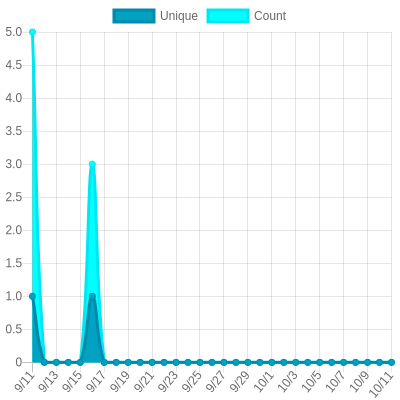
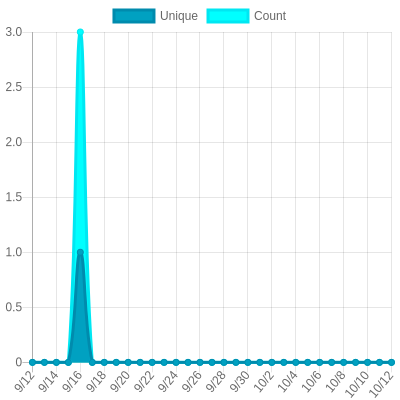
Update views

diff --git a/readme/977206944/month.md b/readme/977206944/month.md
@@ -21,6 +21,17 @@
 	</tr>
 	<tr>
 		<td>
+			<code>2025/10/12</code>
+		</td>
+		<td>
+			<code>0</code>
+		</td>
+		<td>
+			<code>0</code>
+		</td>
+	</tr>
+	<tr>
+		<td>
 			<code>2025/10/11</code>
 		</td>
 		<td>
@@ -349,21 +360,10 @@
 			<code>0</code>
 		</td>
 	</tr>
-	<tr>
-		<td>
-			<code>2025/9/11</code>
-		</td>
-		<td>
-			<code>1</code>
-		</td>
-		<td>
-			<code>5</code>
-		</td>
-	</tr>
 </table>
 
 </details>
-<small><i>Last updated on 2025/10/11 6:15 PM UTC</i></small>
+<small><i>Last updated on 2025/10/12 1:02 AM UTC</i></small>
 
 ## ✂Copy and 📋 Paste
 ### SVG Badge

diff --git a/readme/977206944/week.md b/readme/977206944/week.md
@@ -21,6 +21,17 @@
 	</tr>
 	<tr>
 		<td>
+			<code>2025/10/12</code>
+		</td>
+		<td>
+			<code>0</code>
+		</td>
+		<td>
+			<code>0</code>
+		</td>
+	</tr>
+	<tr>
+		<td>
 			<code>2025/10/11</code>
 		</td>
 		<td>
@@ -96,21 +107,10 @@
 			<code>0</code>
 		</td>
 	</tr>
-	<tr>
-		<td>
-			<code>2025/10/4</code>
-		</td>
-		<td>
-			<code>0</code>
-		</td>
-		<td>
-			<code>0</code>
-		</td>
-	</tr>
 </table>
 
 </details>
-<small><i>Last updated on 2025/10/11 6:15 PM UTC</i></small>
+<small><i>Last updated on 2025/10/12 1:02 AM UTC</i></small>
 
 ## ✂Copy and 📋 Paste
 ### SVG Badge

diff --git a/README.md b/README.md
@@ -26,7 +26,7 @@ The project created and maintained by [gayanvoice](https://github.com/gayanvoice
 			</a>
 		</td>
 		<td>
-			2025/10/9 12:59 AM UTC
+			2025/10/10 12:59 AM UTC
 		</td>
 		<td>
 			4
@@ -37,7 +37,7 @@ The project created and maintained by [gayanvoice](https://github.com/gayanvoice
 	</tr>
 </table>
 
-<small><i>Last updated on 2025/10/11 6:15 PM UTC</i></small>
+<small><i>Last updated on 2025/10/12 1:02 AM UTC</i></small>
 
 ## ✂Copy and 📋 Paste
 ### Total Views Badge

diff --git a/readme/977206944/year.md b/readme/977206944/year.md
@@ -165,7 +165,7 @@
 </table>
 
 </details>
-<small><i>Last updated on 2025/10/11 6:15 PM UTC</i></small>
+<small><i>Last updated on 2025/10/12 1:02 AM UTC</i></small>
 
 ## ✂Copy and 📋 Paste
 ### SVG Badge
